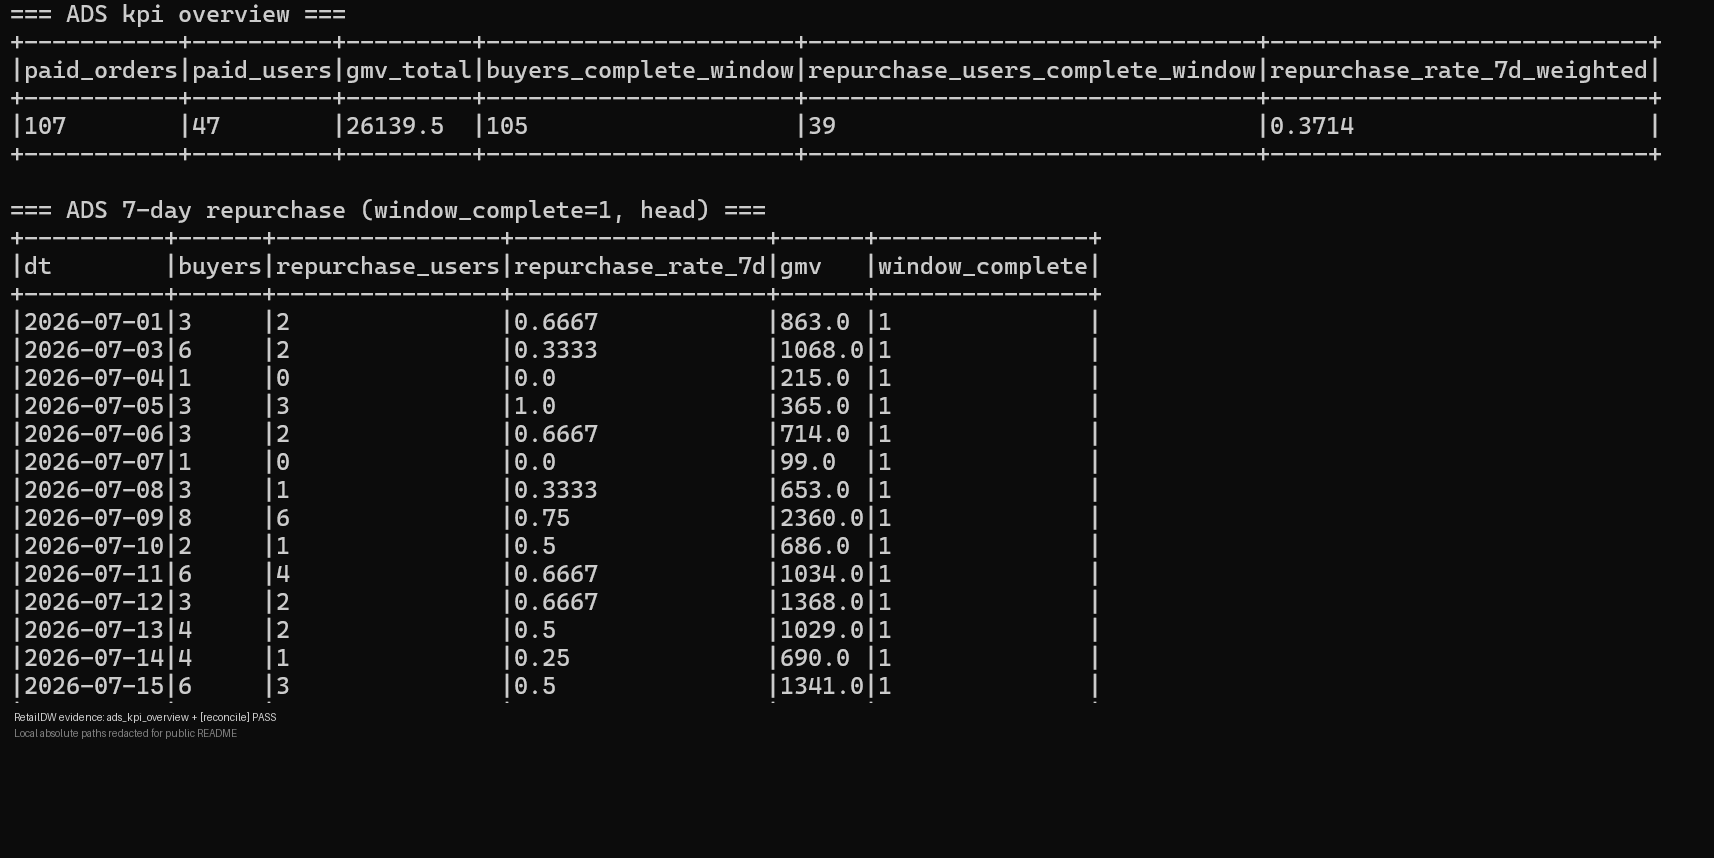
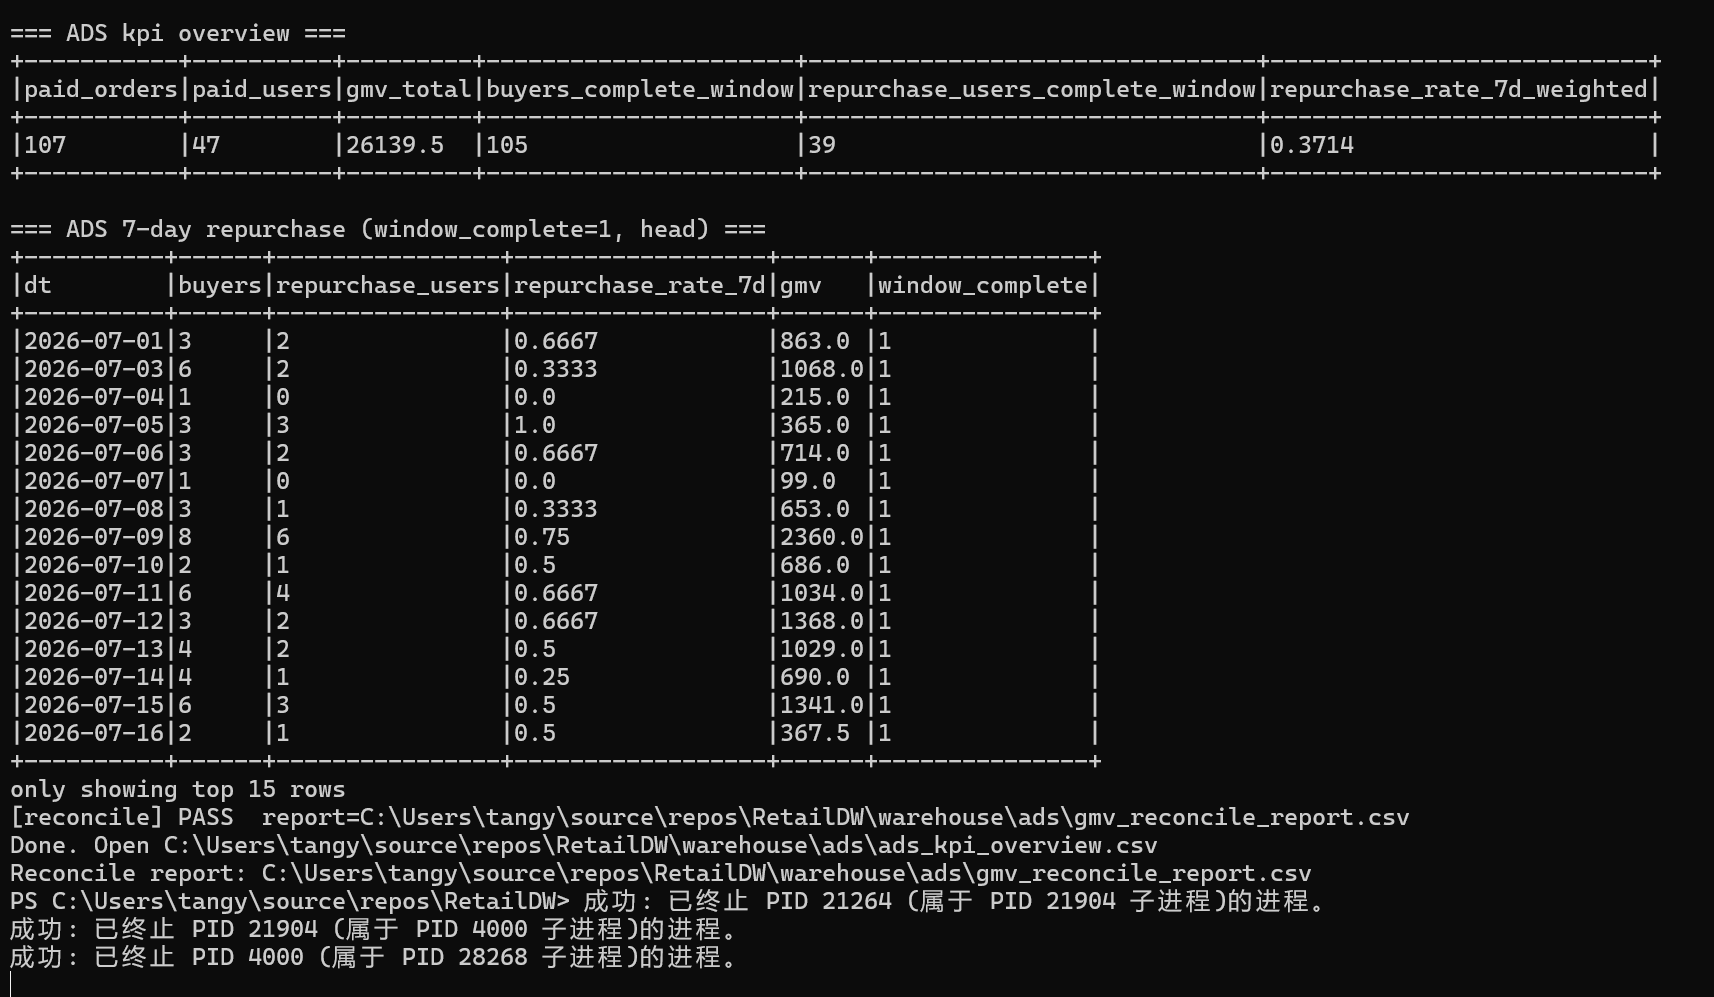
docs: restore terminal evidence screenshot (paths allowed in images)

Changed region(s): [[0.0, 0.2121, 0.804, 0.9697], [0.0, 0.0, 0.9586, 0.1818], [0.1546, 0.5758, 0.1855, 0.7273]]

diff --git a/README.md b/README.md
@@ -22,13 +22,13 @@
 
 ## 证据图
 
-本机 `run_local` 验收证据（公开仓不含本机绝对路径）：
+本机 `run_local` 验收证据（截图允许本机路径；仓库正文不写死本机路径）：
 
 1. `gmv_reconcile_report` 跨层对账表（全 PASS）
 
 ![gmv_reconcile_report](docs/evidence/gmv_reconcile_report.png)
 
-2. 终端摘要：`ads_kpi_overview` + `[reconcile] PASS`（路径已脱敏）
+2. 终端摘要：`ads_kpi_overview` + `[reconcile] PASS`（截图可含本机路径；源码/文档正文不含写死路径）
 
 ![reconcile PASS](docs/evidence/reconcile-pass.png)
 
